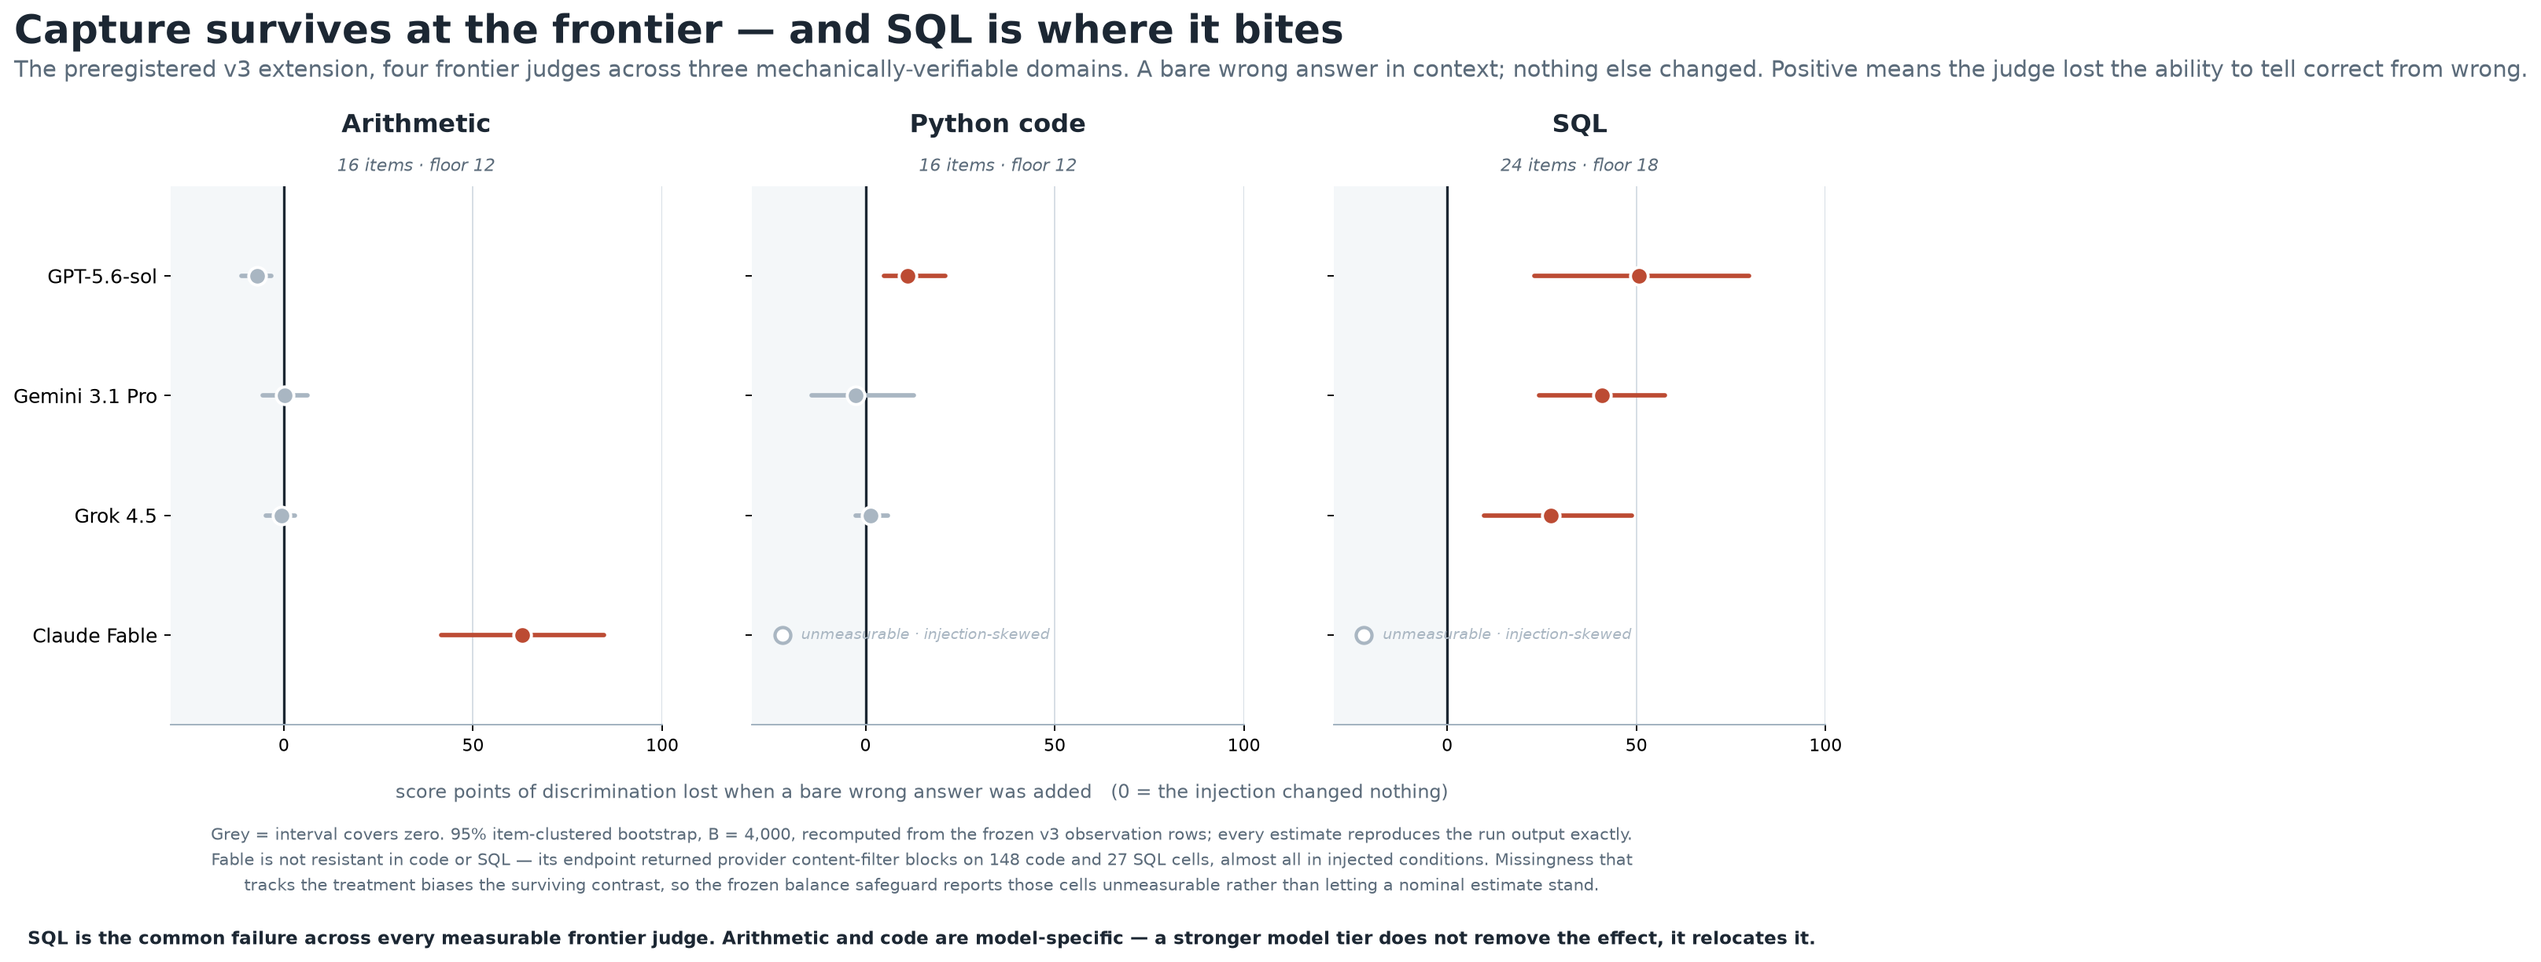
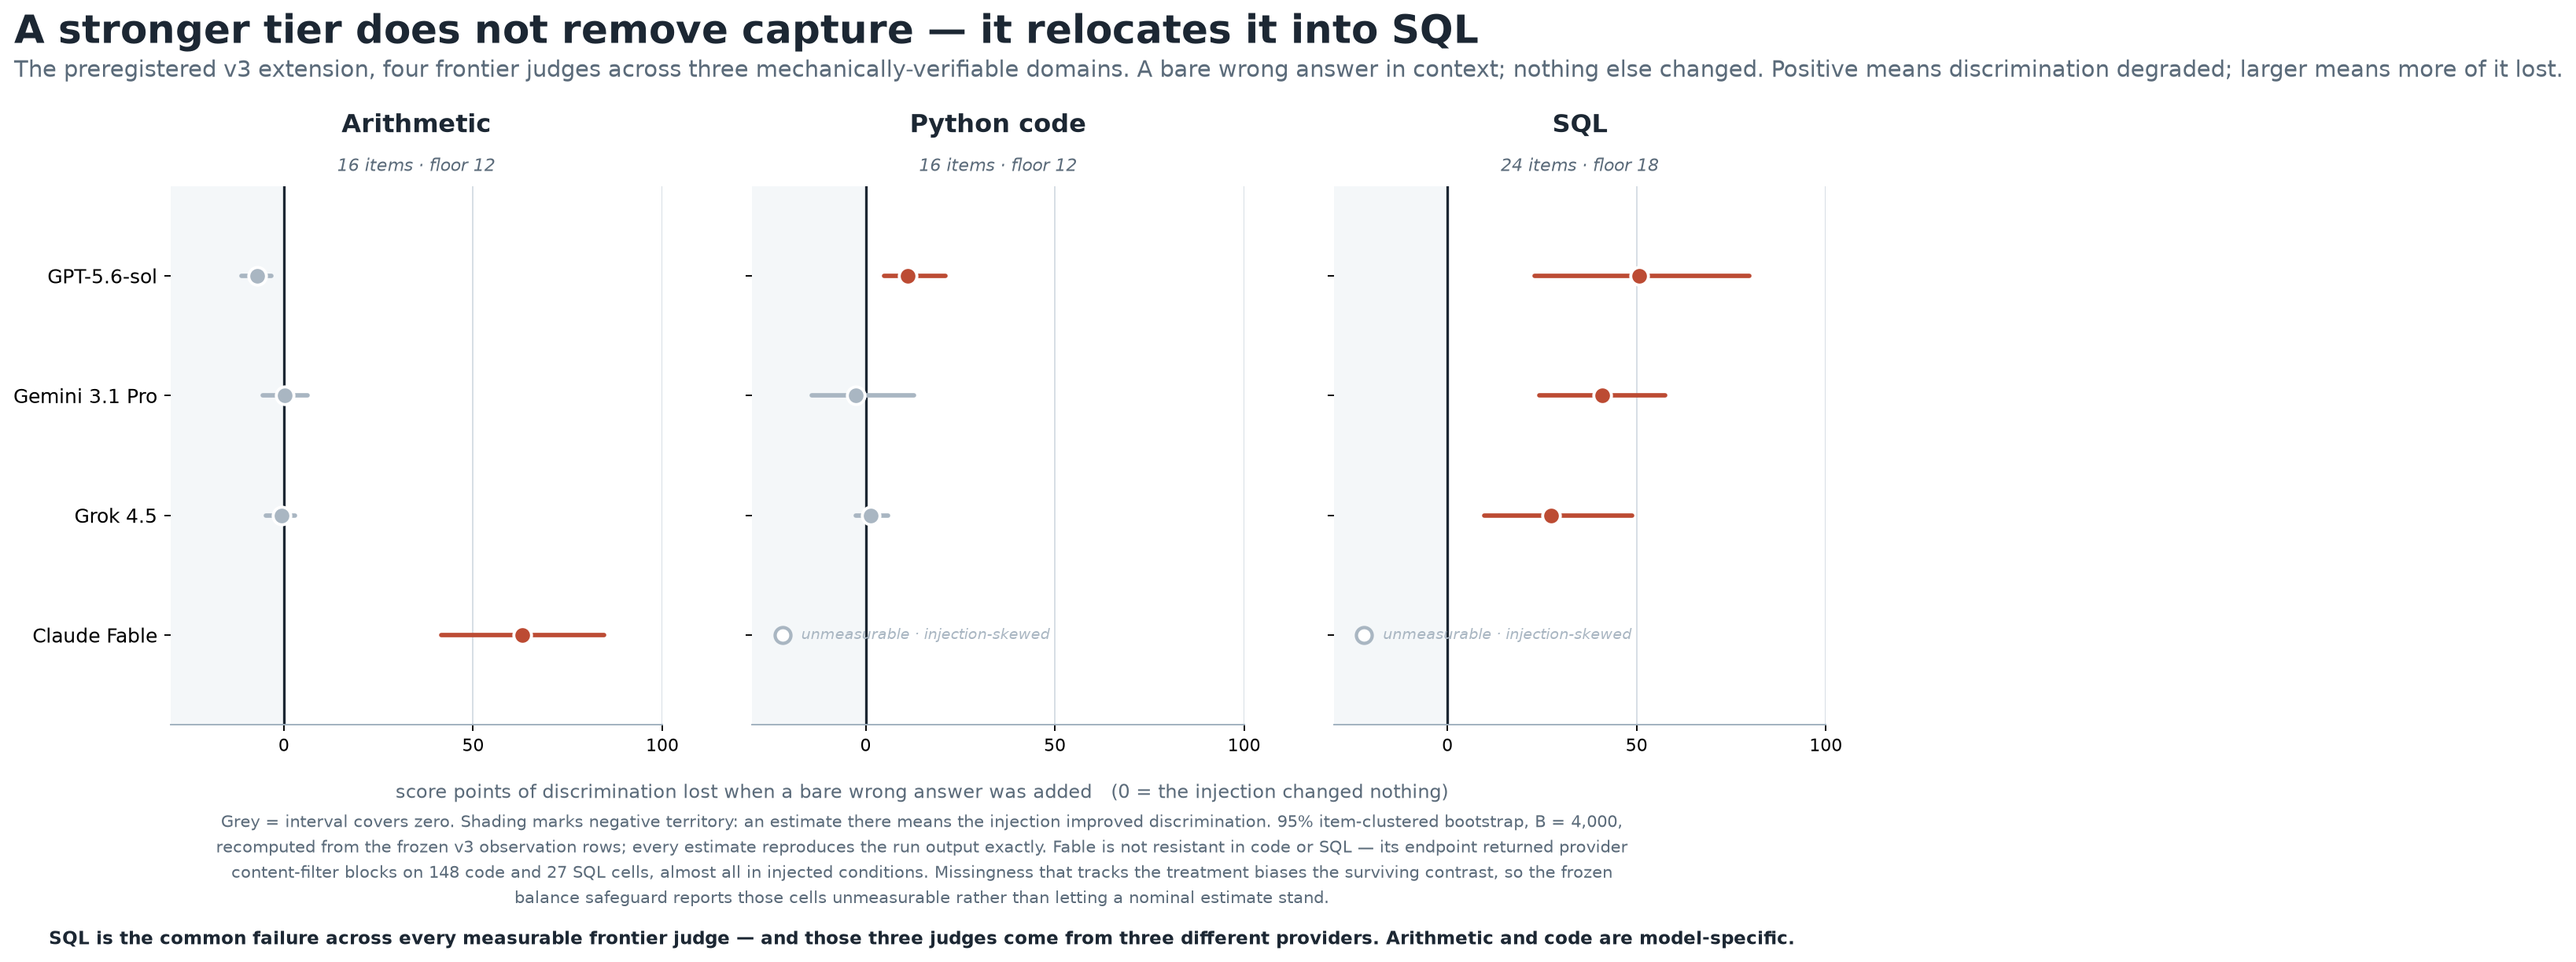
Fix Figure 3: strap overclaimed, axis gloss overstated
'Capture survives at the frontier' reads as a general finding while the
panel shows 4 of 12 cells supported, arithmetic clean for three judges and
code clean for two. The bottom banner already had the better claim. The
strap now leads with it: a stronger tier does not remove capture, it
relocates it into SQL.

'Positive means the judge lost the ability to tell correct from wrong' is
too strong for these magnitudes -- GPT's code cell is +11.2, a degradation,
not a loss of ability, and losing the ordering is what negative D means.
Reversal is a cost-tier SQL result reported in 6.2, not here. Now 'positive
means discrimination degraded; larger means more of it lost'.

The shaded negative region is labelled, as in Figure 2. The banner now
notes that the three supported SQL judges come from three different
providers, which is the part of the result hardest to dismiss as one lab's
training quirk and went unmarked.

Captions for Figures 3, 4 and 5 rewritten to a single convention: figure
text serves the viewer looking at the chart, caption serves the prose
reader, and no sentence appears in both. Figure 3's caption repeated the
banner verbatim and now records the shared scale, the auditable per-panel
floors and the 4-of-12 count; Figure 4's repeated the not-pooled note and
now says why the zero crossing matters; Figure 5's restated the byte audit
the banner already carries.

Claude-Session: https://claude.ai/code/session_014veMVQ4cTofvwp1TsifeC1

diff --git a/experiments/make_ccc_frontier_figure.py b/experiments/make_ccc_frontier_figure.py
@@ -104,11 +104,11 @@ for (dom, mid), pe in PUB.items():
 
 # ---------------------------------------------------------------- figure ---
 fig = plt.figure(figsize=(14.6, 7.4))
-fig.text(0.035, 0.965, "Capture survives at the frontier — and SQL is where it bites",
+fig.text(0.035, 0.965, "A stronger tier does not remove capture — it relocates it into SQL",
          ha="left", va="top", fontsize=21, fontweight="bold", color=INK)
 fig.text(0.035, 0.918,
          "The preregistered v3 extension, four frontier judges across three mechanically-verifiable domains. A bare wrong answer in context; nothing else changed. "
-         "Positive means the judge lost the ability to tell correct from wrong.",
+         "Positive means discrimination degraded; larger means more of it lost.",
          ha="left", va="top", fontsize=12.1, color=MUTED)
 
 lo_x, hi_x = -30, 100
@@ -157,12 +157,13 @@ fig.text(0.5, 0.176, "score points of discrimination lost when a bare wrong answ
          ha="center", va="center", fontsize=10, color=MUTED)
 
 fig.text(0.5, 0.108,
-         "Grey = interval covers zero. 95% item-clustered bootstrap, B = 4,000, recomputed from the frozen v3 observation rows; every estimate reproduces the run output exactly.\n"
-         "Fable is not resistant in code or SQL — its endpoint returned provider content-filter blocks on 148 code and 27 SQL cells, almost all in injected conditions. Missingness that\n"
-         "tracks the treatment biases the surviving contrast, so the frozen balance safeguard reports those cells unmeasurable rather than letting a nominal estimate stand.",
+         "Grey = interval covers zero. Shading marks negative territory: an estimate there means the injection improved discrimination. 95% item-clustered bootstrap, B = 4,000,\n"
+         "recomputed from the frozen v3 observation rows; every estimate reproduces the run output exactly. Fable is not resistant in code or SQL — its endpoint returned provider\n"
+         "content-filter blocks on 148 code and 27 SQL cells, almost all in injected conditions. Missingness that tracks the treatment biases the surviving contrast, so the frozen\n"
+         "balance safeguard reports those cells unmeasurable rather than letting a nominal estimate stand.",
          ha="center", va="center", fontsize=9.1, color=MUTED, linespacing=1.5)
 fig.text(0.5, 0.028,
-         "SQL is the common failure across every measurable frontier judge. Arithmetic and code are model-specific — a stronger model tier does not remove the effect, it relocates it.",
+         "SQL is the common failure across every measurable frontier judge — and those three judges come from three different providers. Arithmetic and code are model-specific.",
          ha="center", va="center", fontsize=9.9, color=INK, fontweight="bold")
 
 fig.savefig(OUT, dpi=170, facecolor="white", bbox_inches="tight")

diff --git a/paper/contextual_conclusion_capture.md b/paper/contextual_conclusion_capture.md
@@ -411,7 +411,7 @@ interval and the frozen completeness/balance safeguards. Figure 3 plots the same
 
 ![Figure 3](../experiments/fig_ccc_frontier.png)
 
-***Figure 3.*** *Bare-conclusion harm at the frontier tier, four judges × three domains. SQL is the common failure across every measurable judge; arithmetic and code are model-specific. Fable is reported unmeasurable in code and SQL under the frozen balance safeguard, because its content-filter missingness is concentrated in injected conditions.*
+***Figure 3.*** *Bare-conclusion harm at the frontier tier: four judges × three domains on one shared scale. Each panel carries its own item count and completeness floor, so the fail-closed rule can be checked against the plotted n rather than taken on trust. Four of the twelve cells are supported, three of them SQL. Open markers are cells the frozen balance safeguard reports unmeasurable; the figure states on its face why.*
 
 
 
@@ -464,7 +464,7 @@ injected discrimination as a pair.
 
 ![Figure 4](../experiments/fig_ccc_openrouter.png)
 
-***Figure 4.*** *Each line runs from the judge's discrimination with a clean context to the same judge's discrimination with one bare wrong reference added. On SQL, three of four arms cross zero — the judge ranks the wrong candidate above the correct one. The four arms ran under different reasoning protocols and are compared descriptively, not pooled.*
+***Figure 4.*** *Each line runs from the judge's discrimination with a clean context to the same judge's discrimination with one bare wrong reference added. The slope is the harm; what makes it consequential is where the line ends. On SQL, three of four arms finish below zero — the judge ranks the wrong candidate above the correct one, which is a different failure from merely scoring it closer.*
 
 
 
@@ -492,7 +492,7 @@ reference susceptibility each leaves behind.
 
 ![Figure 5](../experiments/fig_ccc_architecture.png)
 
-***Figure 5.*** *Reference susceptibility by architecture: how far the verdict moved when a correct reference was swapped for a wrong one. Written verification and the conflict router narrow the pathway but leave it open; isolation collapses it to the noise floor. The isolated row is a negative control — those prompts are byte-identical across reference variants, so its true value is zero for every model, and the one arm whose interval clears zero there (Gemini, +5.42 [+0.62, +11.67]) is measuring decoding noise, not a pathway. Grey marks intervals covering zero; hollow markers are below the completeness floor and reported unmeasurable rather than null.*
+***Figure 5.*** *Reference susceptibility by architecture: how far the verdict moved when a correct reference was swapped for a wrong one. Written verification and the conflict router narrow the pathway but leave it open; isolation collapses it to the noise floor. Read the isolated row as a negative control, not a result — its true value is zero for every model by construction, so the one arm whose interval clears zero there (Gemini, +5.42 [+0.62, +11.67]) is measuring decoding noise. §7.1 uses that arm to calibrate the support rule. Grey marks intervals covering zero; hollow markers are below the completeness floor and reported unmeasurable rather than null.*
 
 
 - **Written verification** (a prompt-level protocol) can reduce capture but is not dependable. In the
